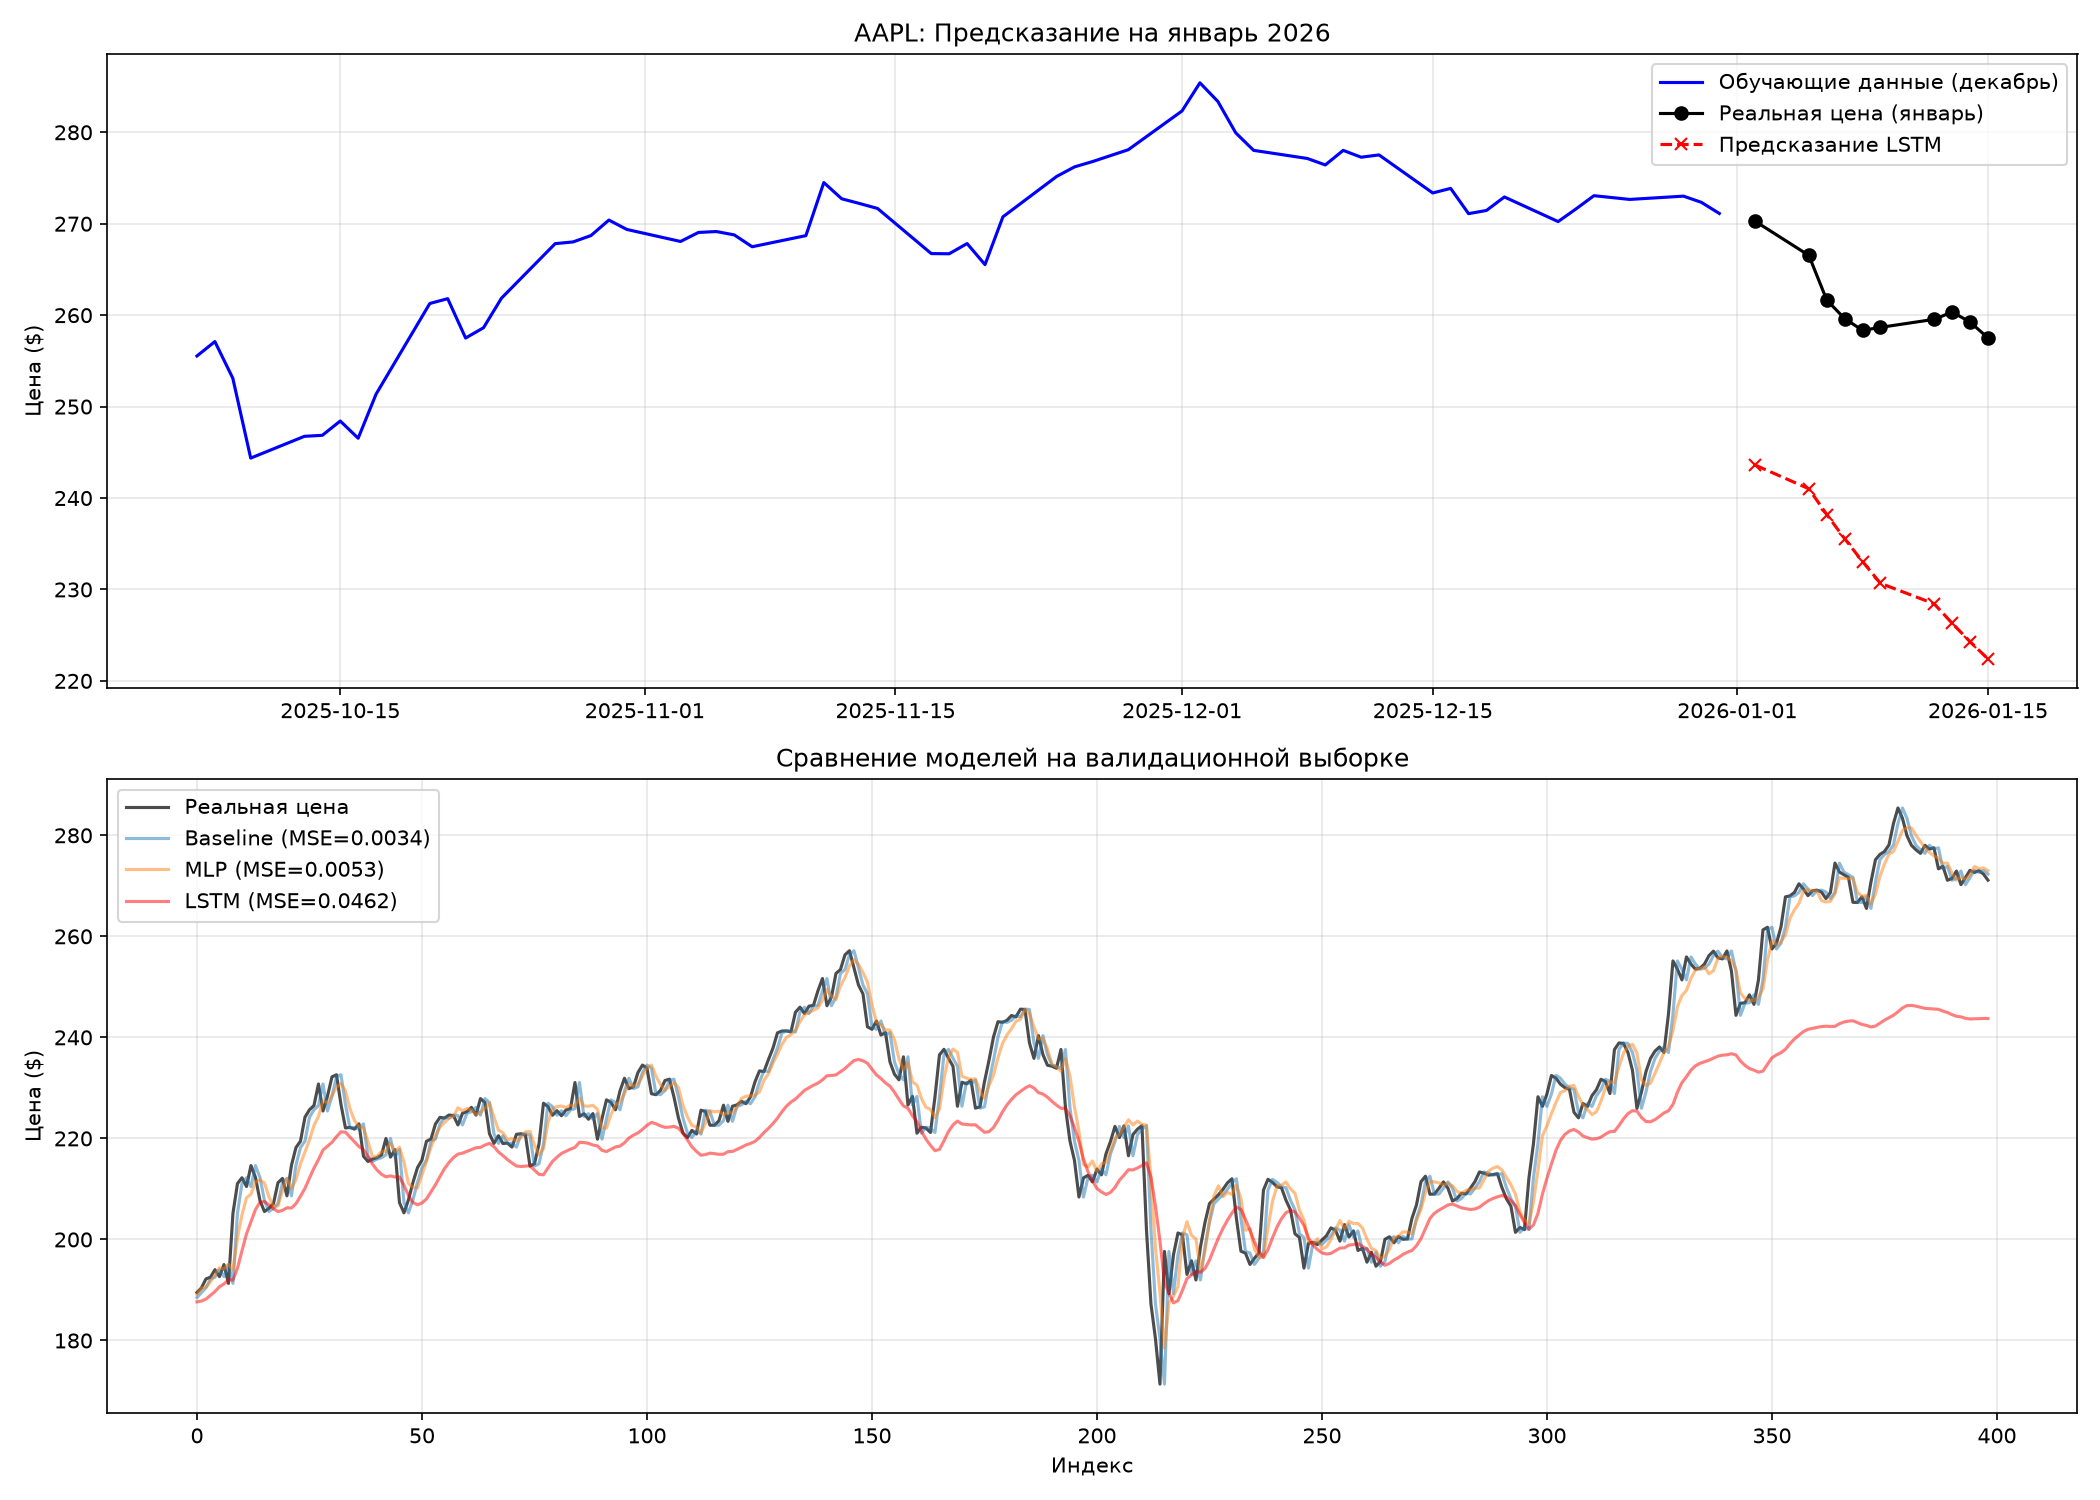
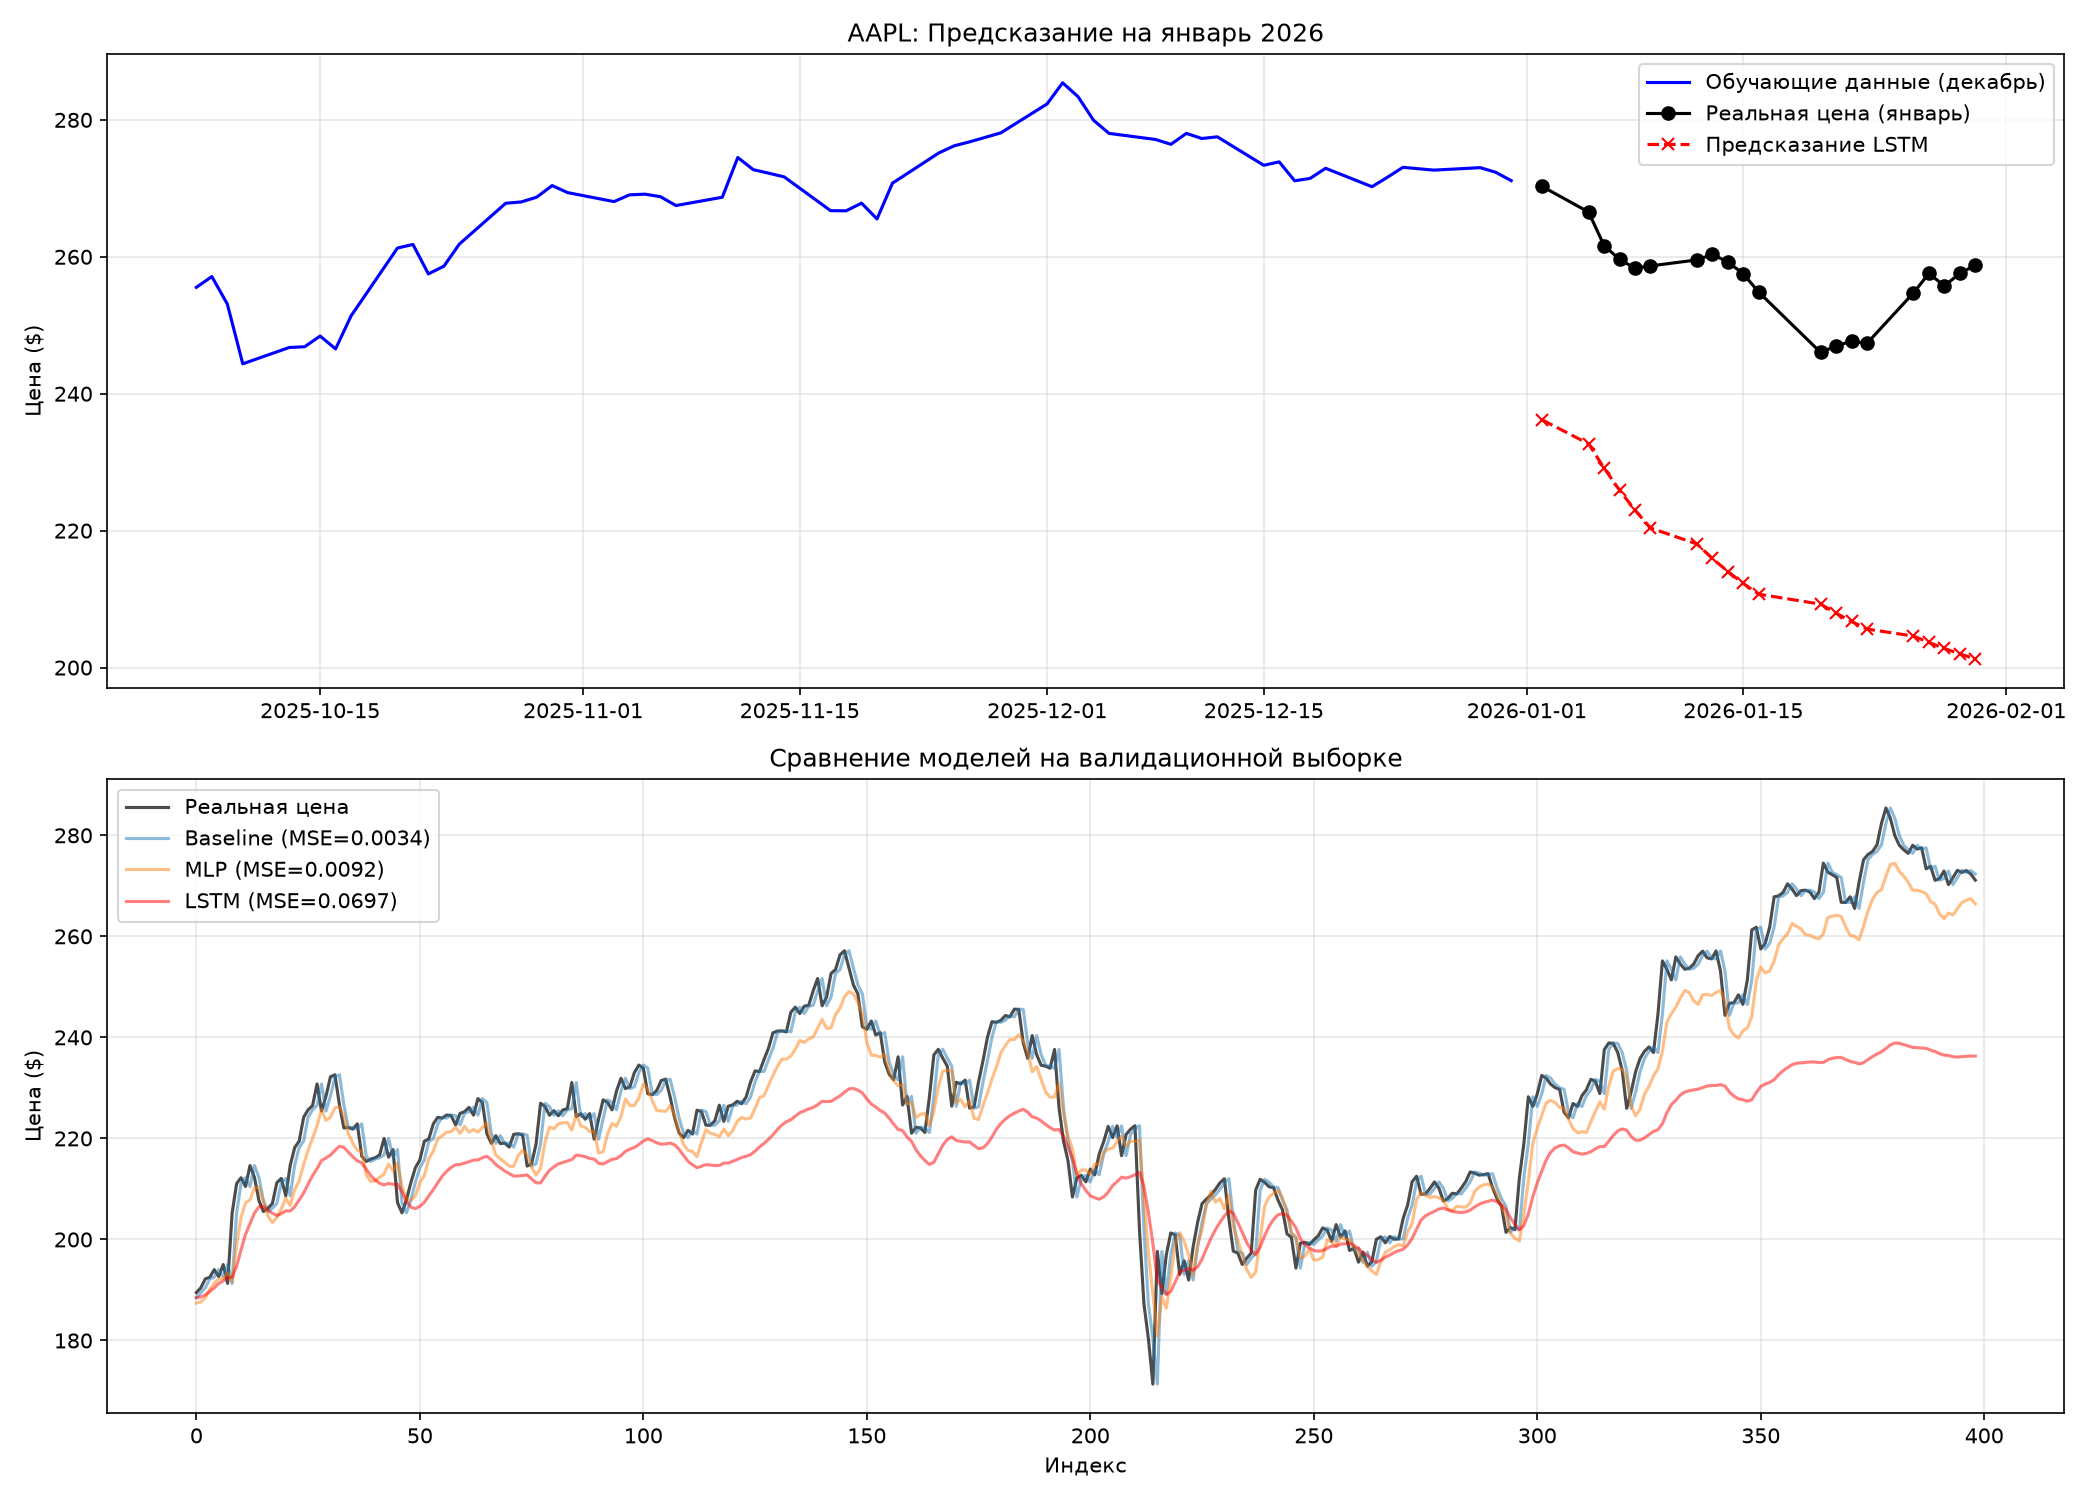
фикс по дням

diff --git a/lstm_stock.py b/lstm_stock.py
@@ -154,9 +154,9 @@ print(f"  MLP MSE:      {mlp_mse:.6f}")
 print(f"  LSTM MSE:     {lstm_mse:.6f}")
 
 # ============================================================
-# 9. Авторегрессионное предсказание на январь (10 дней)
+# 9. Авторегрессионное предсказание на весь январь
 # ============================================================
-PREDICT_DAYS = 10
+PREDICT_DAYS = len(january_prices)
 
 # Берём последние WINDOW дней декабря
 last_window = torch.tensor(scaled_train[-WINDOW:], dtype=torch.float32)
